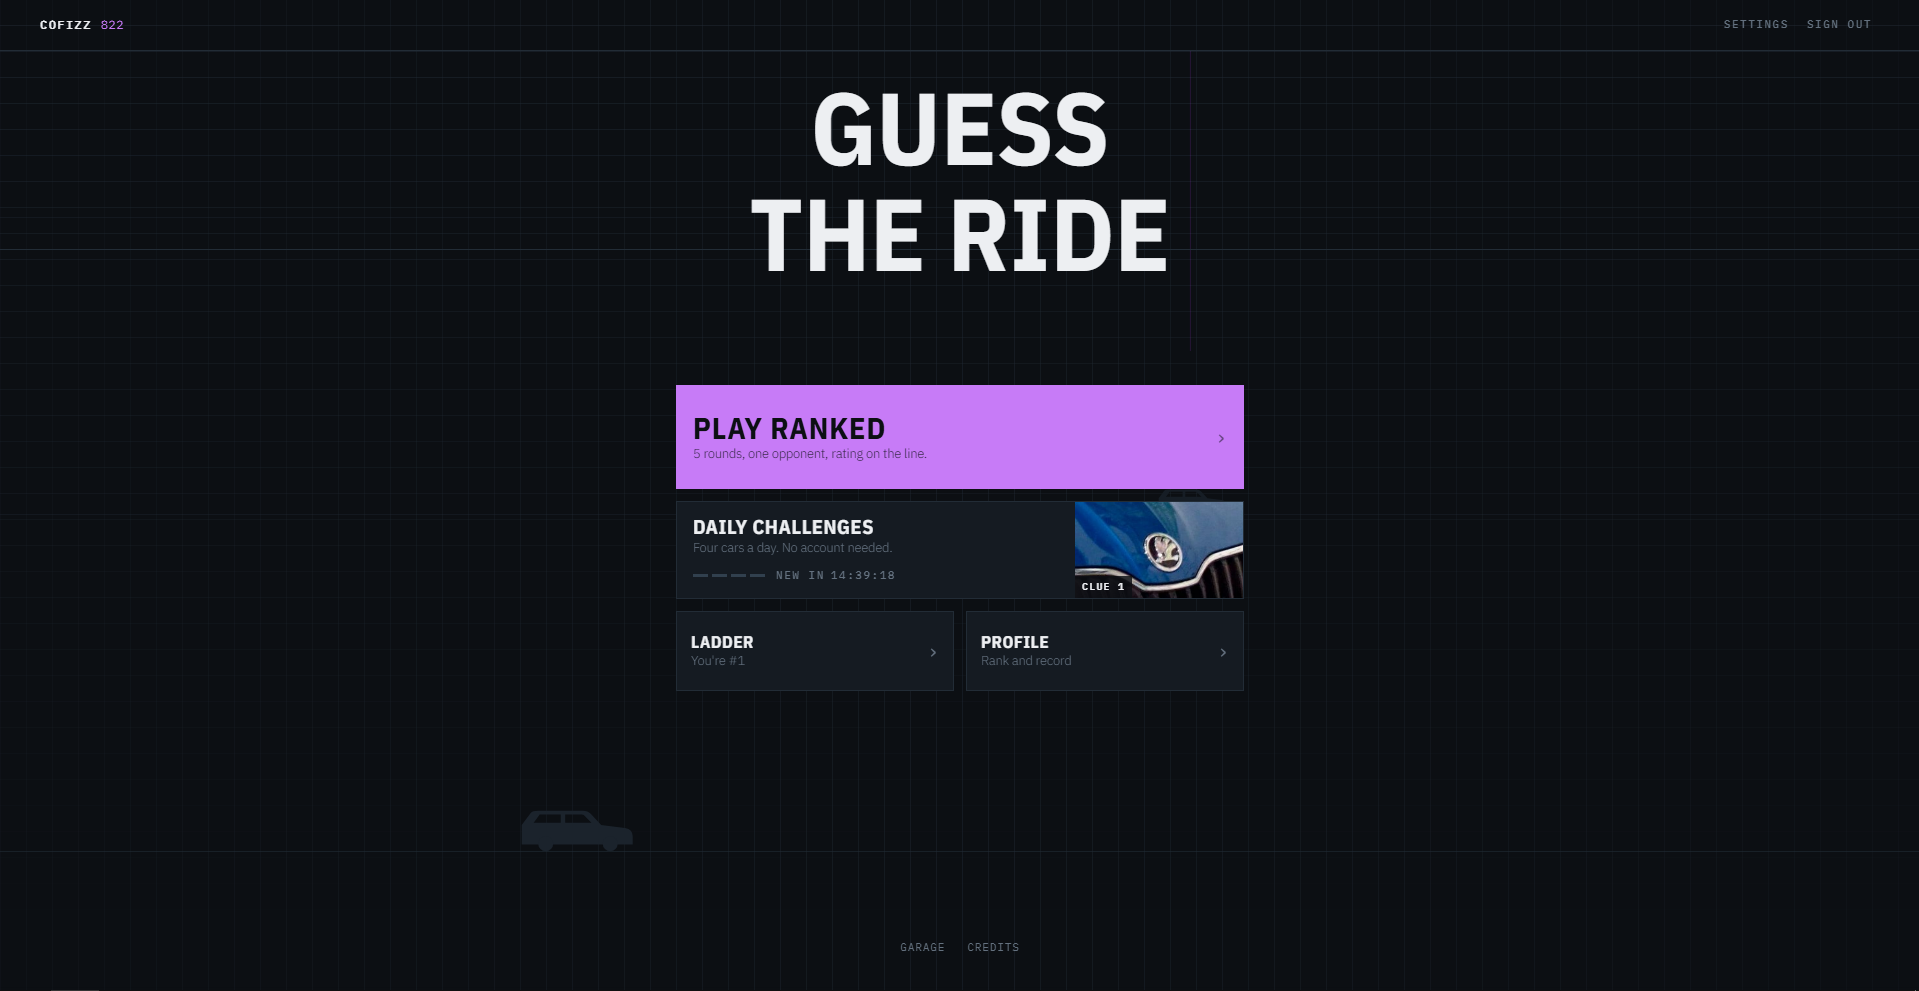
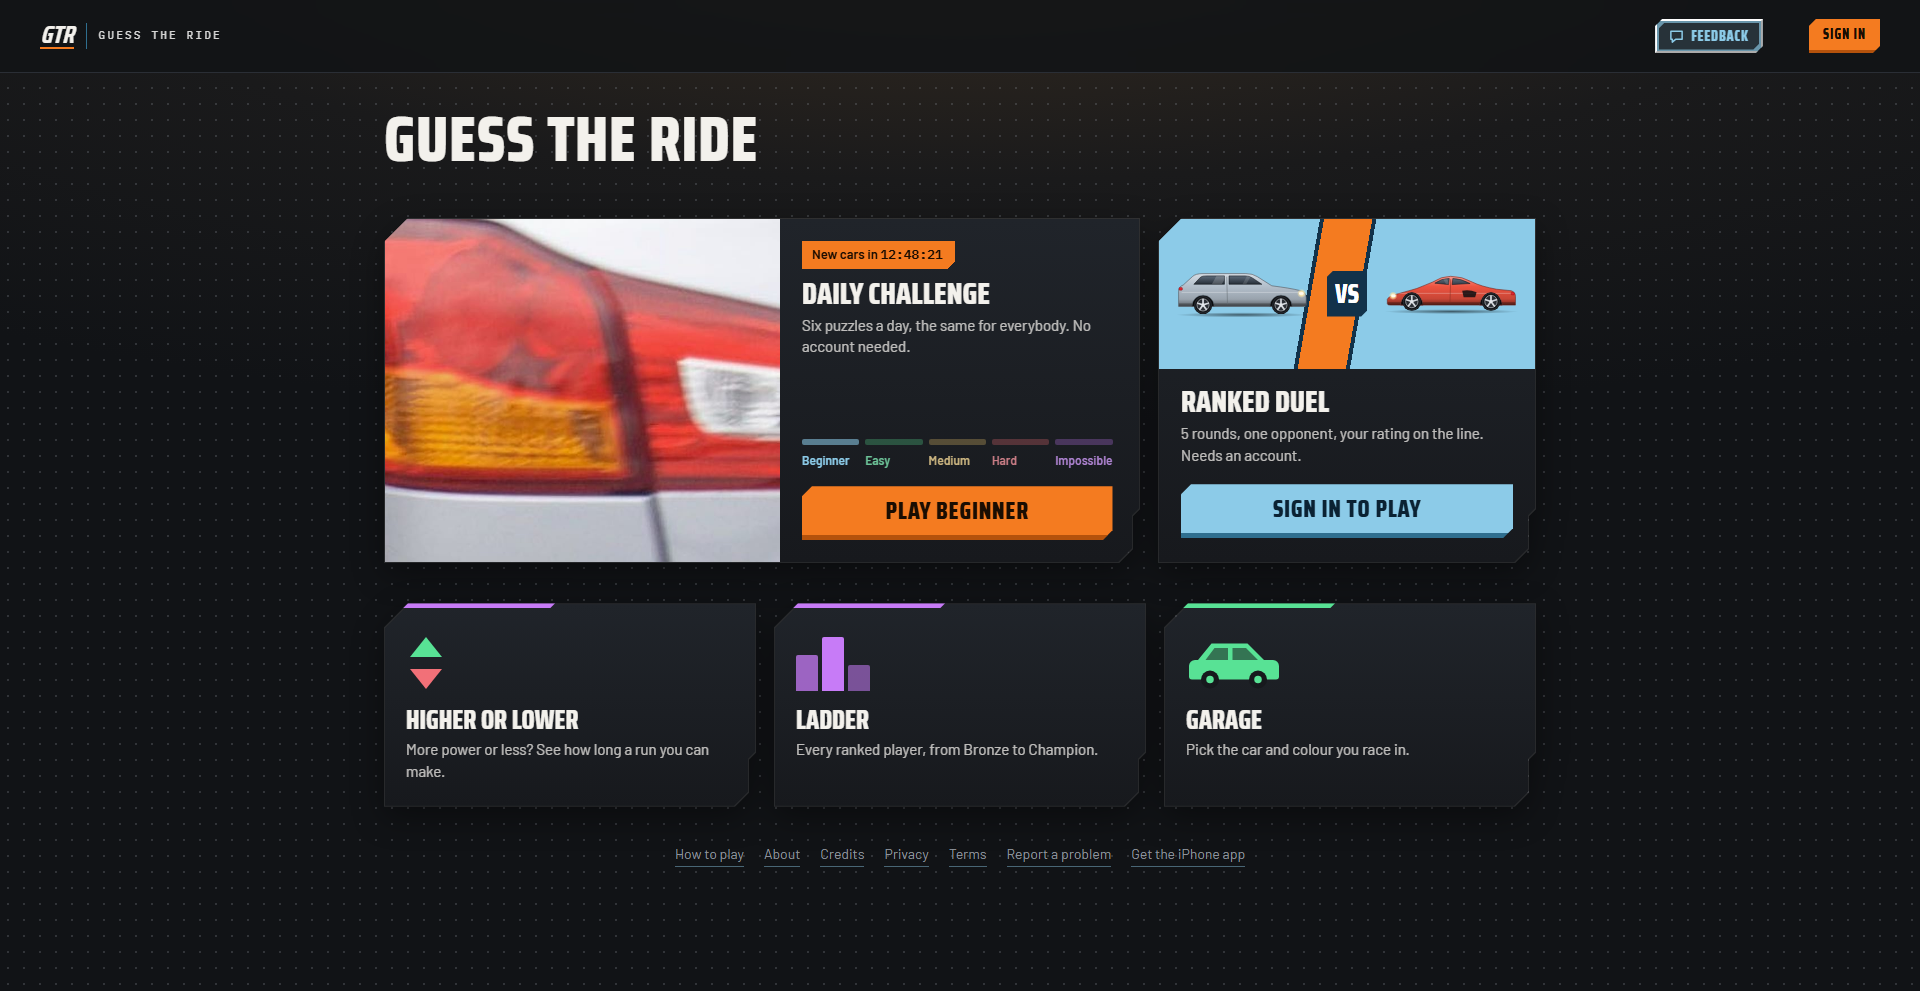
Add Coffeenvite, new GTR screenshot, sharper folder images, new gallery and copy
- Add Coffeenvite project to the folder
- Replace Guess the Ride screenshot with the restyled site, update its description
- Fix blurry folder: center window without translate, serve pre-sized thumbs and previews (make-thumbs.py)
- Right gallery column: Guess the Ride, Fornata, Coffeenvite, Camber
- Rewrite hero blurb and Selected Work heading

diff --git a/index.html b/index.html
@@ -302,10 +302,12 @@
     .os-backdrop.open { opacity: 1; pointer-events: auto; }
 
     .os-window {
-      position: fixed; left: 50%; top: 50%;
-      transform: translate(-50%,-50%) scale(0.88);
+      /* centered with inset + auto margins, not translate(-50%), so it never sits on a half pixel */
+      position: fixed; inset: 0; margin: auto;
+      transform: scale(0.88);
       width: min(90vw, 820px);
       height: clamp(320px, 55vh, 520px);
+      height: round(down, clamp(320px, 55vh, 520px), 2px);
       background: rgba(14,14,22,.97);
       backdrop-filter: blur(32px); -webkit-backdrop-filter: blur(32px);
       border: 1px solid rgba(255,255,255,.1); border-radius: 14px;
@@ -314,7 +316,7 @@
       z-index: 991; opacity: 0; pointer-events: none;
       transition: opacity .35s cubic-bezier(.16,1,.3,1), transform .35s cubic-bezier(.16,1,.3,1);
     }
-    .os-window.open { opacity: 1; pointer-events: auto; transform: translate(-50%,-50%) scale(1); }
+    .os-window.open { opacity: 1; pointer-events: auto; transform: none; }
 
     .os-titlebar {
       height: 40px; background: rgba(255,255,255,.028);
@@ -395,7 +397,7 @@
       transition: transform .38s cubic-bezier(.16,1,.3,1), opacity .32s;
       pointer-events: none; overflow: hidden;
     }
-    .os-detail.visible { transform: translateX(0); opacity: 1; pointer-events: auto; }
+    .os-detail.visible { transform: none; opacity: 1; pointer-events: auto; }
 
     .od-preview { flex: 0 0 44%; overflow: hidden; }
     .od-preview img {
@@ -506,9 +508,9 @@
       .os-window {
         width: min(96vw, 820px) !important;
         height: 80vh !important; height: 80dvh !important;
-        transform: translate(-50%,-50%) scale(0.88) !important;
+        transform: scale(0.88) !important;
       }
-      .os-window.open { transform: translate(-50%,-50%) scale(1) !important; }
+      .os-window.open { transform: none !important; }
       .os-titlebar { height: 46px; }
       .os-tc { width: 13px; height: 13px; }
       .os-files { grid-template-columns: repeat(3,1fr); gap: 4px; padding: 12px; }
@@ -559,7 +561,7 @@
     <div>
       <span class="big-n" id="bigN">cofizz<span class="dot">.</span></span>
       <div class="tagline">Frontend &amp; Creative Developer</div>
-      <div class="blurb">I make things move on the internet.<br>3D, motion &amp; interfaces that feel alive.</div>
+      <div class="blurb">I build things for the web and ship them.<br>Apps, games and sites, made in Belgrade.</div>
     </div>
     <div class="s1-right">
       <a href="#s2" class="scroll-hint">Work <span class="sh-arr">↓</span></a>
@@ -579,8 +581,8 @@
       <span class="s2-eye-text">Selected Work</span>
       <div class="s2-eye-line"></div>
     </div>
-    <h2 class="s2-heading">Made with <em>intent</em></h2>
-    <p class="s2-sub">Real clients, real code, built from scratch</p>
+    <h2 class="s2-heading">Things I've <em>shipped</em></h2>
+    <p class="s2-sub">Live apps, real users, and a few side quests</p>
   </div>
 
   <!-- Parallax gallery -->
@@ -614,28 +616,29 @@
       </div>
 
       <div class="gallery-col right-col" id="right-col">
-        <a class="gallery-card rot-p4" href="https://strong-sprite-e92dd3.netlify.app/" target="_blank" rel="noopener">
-          <img src="Drale.jpg" alt="Drale" draggable="false" loading="lazy" decoding="async"
-               onerror="this.style.display='none';this.parentElement.style.background='radial-gradient(ellipse at 35% 35%,#3B82F6 0%,#071020 68%,#060609 100%)'"/>
+        <a class="gallery-card rot-p4" href="https://guesstheride.com/" target="_blank" rel="noopener">
+          <img src="cards/GuessTheRide.jpg" alt="Guess the Ride" draggable="false" loading="lazy" decoding="async"
+               onerror="this.style.display='none';this.parentElement.style.background='radial-gradient(ellipse at 35% 35%,#C77DFF 0%,#0b0b12 68%,#060609 100%)'"/>
           <div class="card-halftone"></div>
-          <div class="card-label">Drale</div>
+          <div class="card-label">Guess the Ride</div>
         </a>
-        <a class="gallery-card rot-n2" href="https://micinakujna.vercel.app/" target="_blank" rel="noopener">
-          <img src="MicaPocetna.jpg" alt="Mićina domaća kujna" draggable="false" loading="lazy" decoding="async"/>
+        <div class="gallery-card rot-n2">
+          <img src="cards/fornata.jpg" alt="Fornata" draggable="false" loading="lazy" decoding="async"
+               onerror="this.style.display='none';this.parentElement.style.background='radial-gradient(ellipse at 35% 35%,#C8643C 0%,#0b0b12 68%,#060609 100%)'"/>
           <div class="card-halftone"></div>
-          <div class="card-label">Mićina domaća kujna</div>
+          <div class="card-label">Fornata · coming soon</div>
+        </div>
+        <a class="gallery-card rot-p3" href="https://coffeenvite.vercel.app/" target="_blank" rel="noopener">
+          <img src="cards/Coffeenvite.jpg" alt="Coffeenvite" draggable="false" loading="lazy" decoding="async"
+               onerror="this.style.display='none';this.parentElement.style.background='radial-gradient(ellipse at 35% 35%,#C8955F 0%,#0b0b12 68%,#060609 100%)'"/>
+          <div class="card-halftone"></div>
+          <div class="card-label">Coffeenvite</div>
         </a>
-        <a class="gallery-card rot-p3" href="https://calo-three.vercel.app/login" target="_blank" rel="noopener">
-          <img src="Calo.jpg" alt="Calo" draggable="false" loading="lazy" decoding="async"
-               onerror="this.style.display='none';this.parentElement.style.background='radial-gradient(ellipse at 35% 35%,#06B6D4 0%,#071520 68%,#060609 100%)'"/>
+        <a class="gallery-card rot-n3" href="https://camber-app.com/" target="_blank" rel="noopener">
+          <img src="cards/Camber.jpg" alt="Camber" draggable="false" loading="lazy" decoding="async"
+               onerror="this.style.display='none';this.parentElement.style.background='radial-gradient(ellipse at 35% 35%,#EF4444 0%,#0b0b12 68%,#060609 100%)'"/>
           <div class="card-halftone"></div>
-          <div class="card-label">Calo</div>
-        </a>
-        <a class="gallery-card rot-n3" href="https://cofizz.github.io/rile2026/" target="_blank" rel="noopener">
-          <img src="Pilates.jpg" alt="Pilates Reformer Shop" draggable="false" loading="lazy" decoding="async"
-               onerror="this.style.display='none';this.parentElement.style.background='radial-gradient(ellipse at 35% 35%,#FF7A6B 0%,#241010 68%,#060609 100%)'"/>
-          <div class="card-halftone"></div>
-          <div class="card-label">Pilates Reformer Shop</div>
+          <div class="card-label">Camber</div>
         </a>
       </div>
 
@@ -991,6 +994,12 @@ const PROJECTS = [
     desc:'A social platform for car enthusiasts. Plan your build as a staged roadmap, project finished horsepower and torque over your baseline, track the true cost of parts and labour, and see your crew live on the map with their car and current speed. Web app live now; iOS & Android coming.',
     tech:'Next.js 15 · React 19 · TypeScript · Prisma · PostgreSQL · NextAuth · Tailwind · Expo / React Native · Cloudflare R2 · Vercel',
     url:'https://camber-app.com/', cta:'View Live', img:'camber2.jpg', phone:true },
+  { accent:'#C8955F',
+    title:'Coffeenvite',
+    meta:'2026 · Live web app · Social planning app',
+    desc:'Coffeenvite turns a vague "let\'s grab coffee" into a set time and place without anyone creating an account. You share a link, friends pick the times that work and vote on where to go, and each finished coffee stamps a shared loyalty card with history, streaks and achievements. It runs on Next.js and Supabase with anonymous sign-in, Postgres row level security, realtime updates and database triggers that send localized email notifications. The app is translated into six languages and deployed on Vercel.',
+    tech:'Next.js · React · TypeScript · Supabase · PostgreSQL · Tailwind CSS · Motion · Vercel',
+    url:'https://coffeenvite.vercel.app/', cta:'View Live', img:'Coffeenvite.jpg', phone:true },
   { accent:'#EAB308',
     title:'Strujokaz',
     meta:'2026 · Live web app · Learn electronics',
@@ -1042,7 +1051,7 @@ const PROJECTS = [
   { accent:'#C77DFF',
     title:'Guess the Ride',
     meta:'2026 · Live web game · Multiplayer car guessing game',
-    desc:'Name the car from a close-up clue. Ranked 1v1 matches over 5 rounds with your rating on the line, a ladder, player profiles, and daily challenges (four cars a day, no account needed). Sign in with Google, Discord or email. Self-hosted on a single Hetzner server with Postgres, with nightly encrypted backups to Cloudflare R2.',
+    desc:'Name the car from a close-up clue. Ranked 1v1 matches over 5 rounds with your rating on the line, a ladder, player profiles, and daily challenges (six puzzles a day, no account needed), a Higher or Lower mode and a garage to pick the car you race in. Sign in with Google, Discord or email. Self-hosted on a single Hetzner server with Postgres, with nightly encrypted backups to Cloudflare R2.',
     tech:'Next.js 15 · React 19 · TypeScript · Postgres · Drizzle · Auth.js · Cloudflare R2 · Hetzner',
     url:'https://guesstheride.com/', cta:'View Live', img:'GuessTheRide.png' },
   { accent:'#C8643C',
@@ -1076,6 +1085,9 @@ document.getElementById('folder-sub').textContent = `${PROJECTS.length} items`;
 osTitleEl.textContent = folderTitle;
 
 const esc = s => String(s).replace(/&/g, '&amp;').replace(/"/g, '&quot;').replace(/</g, '&lt;');
+/* small pre-sized copies made by make-thumbs.py, so the grid isn't shrinking 1900px images */
+const thumbOf     = img => 'thumbs/' + img.replace(/\.[^.]+$/, '') + '.jpg';
+const previewOf   = img => 'previews/' + img.replace(/\.[^.]+$/, '') + '.jpg';
 const thumbGrad   = acc => `radial-gradient(ellipse at 40% 30%, ${acc} 0%, #0b0b12 72%)`;
 const previewGrad = acc => `radial-gradient(ellipse at 35% 30%, ${acc} 0%, #0b0b12 68%, #08080c 100%)`;
 
@@ -1087,7 +1099,7 @@ function buildFiles() {
   osFilesEl.innerHTML = PROJECTS.map((p, i) => `
     <button type="button" class="os-file" style="--acc:${p.accent}">
       <span class="os-file-thumb${p.phone ? ' phone' : ''}" style="background:${thumbGrad(p.accent)}">
-        ${p.img ? `<img src="${esc(p.img)}" alt="" draggable="false" decoding="async" onerror="this.remove()"/>` : ''}
+        ${p.img ? `<img src="${esc(thumbOf(p.img))}" alt="" draggable="false" decoding="async" onerror="this.remove()"/>` : ''}
       </span>
       <span class="os-fname">${p.short || p.title}</span>
     </button>`).join('');
@@ -1136,7 +1148,7 @@ function openDetail(idx) {
   odPreviewEl.className = 'od-preview' + (p.phone ? ' phone' : '');
   odPreviewEl.style.background = previewGrad(p.accent);
   odPreviewEl.innerHTML = p.img
-    ? `<img src="${esc(p.img)}" alt="${esc(p.title)}" draggable="false" onerror="this.remove()"/>`
+    ? `<img src="${esc(previewOf(p.img))}" alt="${esc(p.title)}" draggable="false" onerror="this.remove()"/>`
     : '';
 
   const techLine = p.tech ? `<div class="od-tech" style="color:${p.accent}">${p.tech}</div>` : '';

diff --git a/make-thumbs.py b/make-thumbs.py
@@ -1,0 +1,59 @@
+"""Builds pre-sized images from the full screenshots, so the browser never has to
+shrink a 2000px image into a small box (that's what made them look blurry).
+
+  thumbs/   folder grid tiles (shown about 120x90)
+  previews/ folder detail view on the right (shown about 460px wide)
+  cards/    3:4 cards in the "Selected work" gallery (shown about 295x393)
+
+Run after adding or replacing a project image: python make-thumbs.py"""
+import re
+from pathlib import Path
+from PIL import Image, ImageFilter
+
+root = Path(__file__).parent
+src = (root / 'index.html').read_text(encoding='utf-8')
+block = src[src.index('const PROJECTS'):src.index('];', src.index('const PROJECTS'))]
+
+def sharpen(im):
+    return im.filter(ImageFilter.UnsharpMask(radius=0.6, percent=60, threshold=2))
+
+def fit_h(im, h):
+    return im.resize((round(im.width * h / im.height), h), Image.LANCZOS)
+
+def cover_top(im, w, h):
+    s = max(w / im.width, h / im.height)
+    im = im.resize((round(im.width * s), round(im.height * s)), Image.LANCZOS)
+    left = (im.width - w) // 2
+    return im.crop((left, 0, left + w, h))
+
+def save(im, folder, name):
+    (root / folder).mkdir(exist_ok=True)
+    out = root / folder / (Path(name).stem + '.jpg')
+    sharpen(im).save(out, quality=86, optimize=True, progressive=True)
+    print(f'{folder}/{out.name}', im.size)
+
+# folder grid + detail preview, for every project with an image
+for entry in re.findall(r'\{[^{}]*\}', block):
+    m = re.search(r"img:'([^']+)'", entry)
+    if not m:
+        continue
+    name = m.group(1)
+    im = Image.open(root / name).convert('RGB')
+    if 'phone:true' in entry:
+        save(fit_h(im, 260), 'thumbs', name)
+        save(fit_h(im, 900) if im.height > 900 else im, 'previews', name)
+    else:
+        save(cover_top(im, 360, 270), 'thumbs', name)
+        save(im.resize((1000, round(im.height * 1000 / im.width)), Image.LANCZOS)
+             if im.width > 1000 else im, 'previews', name)
+
+# gallery cards: hand-picked 3:4 crop box (left, top, right, bottom) per source image
+CARDS = {
+    'GuessTheRide.png': (380, 0, 1123, 991),
+    'Coffeenvite.jpg':  (0, 0, 780, 1040),
+    'Camber.jpg':       (574, 0, 1586, 1350),
+    'fornata.png':      (420, 0, 1020, 800),
+}
+for name, box in CARDS.items():
+    im = Image.open(root / name).convert('RGB').crop(box)
+    save(im.resize((600, 800), Image.LANCZOS), 'cards', name)
